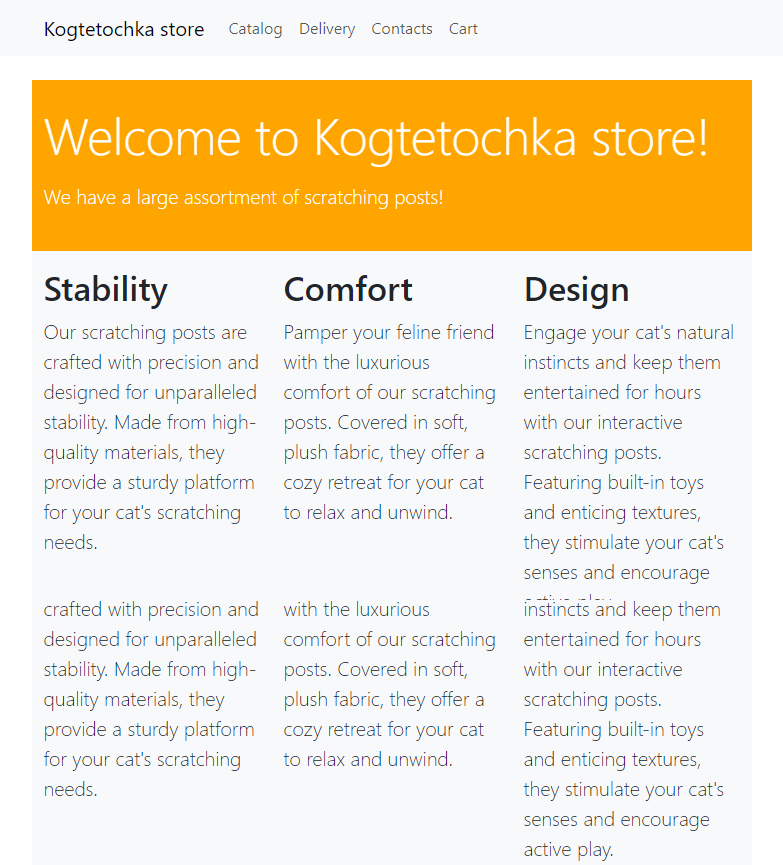
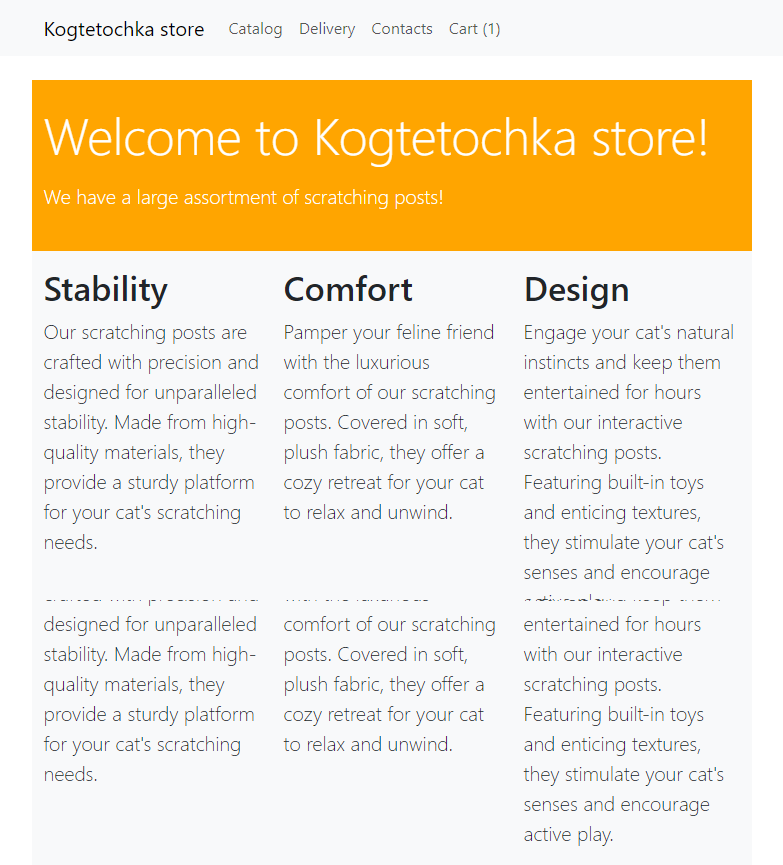
update catalog tests

Changed region(s): [[0.6743, 0.6867, 0.9195, 0.9988], [0.0613, 0.6867, 0.3372, 0.9364], [0.3678, 0.6867, 0.6437, 0.9052]]

diff --git a/test/testplane/catalog.testplane.ts b/test/testplane/catalog.testplane.ts
@@ -2,21 +2,19 @@ import { localURL } from "./helper/localUrl";
 
 describe('Каталог', () => {
 
-   it('В каталоге для каждого товара отображаются название, цена, ссылка', async ({ browser }) => {
+   it('В каталоге для каждого товара отображаются изображение, название, цена, ссылка', async ({ browser }) => {
       await browser.url(localURL('/catalog'));
-      const productItems = await browser.$$('.ProductItem');
-      for (let i = 0; i < productItems.length; i++) {
-         const productItem = productItems[i];
-         const productNameText = await productItem.$('.ProductItem-Name').getText();
-         const productPriceText = await productItem.$('.ProductItem-Price').getText();
-         const productDetailsLinkText = await productItem.$('.ProductItem-DetailsLink').getText();
-         const productDetailsLinkHref = await productItem.$('.ProductItem-DetailsLink').getAttribute('href');
-         expect(productNameText).toBeTruthy();
-         expect(productPriceText).toBeTruthy();
-         expect(productPriceText).toMatch(new RegExp(/\$[0-9]+.*/i));
-         expect(productDetailsLinkText).toBeTruthy();
-         expect(productDetailsLinkHref).toBeTruthy();
-      }
+
+      const images = await browser.$$('.Image');
+      const names = await browser.$$('.ProductItem-Name');
+      const prices = await browser.$$('.ProductItem-Price');
+      const links = await browser.$$('.ProductItem-DetailsLink');
+
+      await Promise.all(images.map((image) => expect(image).toBeDisplayed()));
+      await Promise.all(names.map((name) => expect(name).toBeDisplayed()));
+      await Promise.all(prices.map((price) => expect(price).toBeDisplayed()));
+      await Promise.all(links.map((link) => expect(link).toBeDisplayed()));
+      await Promise.all(links.map((link) => expect(link.getAttribute('href')).not.toBeUndefined()));
    });
 
    it('товары из каталога открываются корректно', async ({ browser }) => {
@@ -34,4 +32,24 @@ describe('Каталог', () => {
          await browser.url(localURL('/catalog'));
       }
    });
+
+   it('товар успешно добавляется в корзину', async ({ browser }) => {
+      await browser.url(localURL('/catalog'));
+
+      const detailsLink = await browser.$('.ProductItem-DetailsLink');
+      await detailsLink.click();
+
+      const addToCart = await browser.$('.ProductDetails-AddToCart');
+      await addToCart.waitForDisplayed();
+      await addToCart.click();
+      await addToCart.click();
+
+      await browser.url(localURL('/cart'));
+
+      const cartInHeader = await browser.$('[href="/hw/store/cart"]');
+      const table = await browser.$('.Cart-Table');
+
+      expect(cartInHeader).toHaveText('Cart (1)');
+      expect(table).toBeDisabled();
+   })
 })

diff --git a/testplane-report/data.js b/testplane-report/data.js
@@ -1,2 +1,2 @@
-var data = {"skips":[],"config":{"defaultView":"all","diffMode":"3-up-scaled","baseHost":"","errorPatterns":[],"metaInfoBaseUrls":{},"customScripts":[],"yandexMetrika":{"counterNumber":null},"pluginsEnabled":false,"plugins":[]},"apiValues":{"toolName":"testplane","extraItems":{},"metaInfoExtenders":{},"imagesSaver":{"saveImg":"async (srcCurrPath, { destPath, reportDir }) => {\n        await (0, server_utils_1.copyFileAsync)(srcCurrPath, destPath, { reportDir });\n        return destPath;\n    }"},"reportsSaver":null},"date":"Thu Jul 04 2024 18:47:47 GMT+0300 (Москва, стандартное время)"};
+var data = {"skips":[],"config":{"defaultView":"all","diffMode":"3-up-scaled","baseHost":"","errorPatterns":[],"metaInfoBaseUrls":{},"customScripts":[],"yandexMetrika":{"counterNumber":null},"pluginsEnabled":false,"plugins":[]},"apiValues":{"toolName":"testplane","extraItems":{},"metaInfoExtenders":{},"imagesSaver":{"saveImg":"async (srcCurrPath, { destPath, reportDir }) => {\n        await (0, server_utils_1.copyFileAsync)(srcCurrPath, destPath, { reportDir });\n        return destPath;\n    }"},"reportsSaver":null},"date":"Fri Jul 05 2024 12:52:11 GMT+0300 (Москва, стандартное время)"};
 try { module.exports = data; } catch(e) {}
